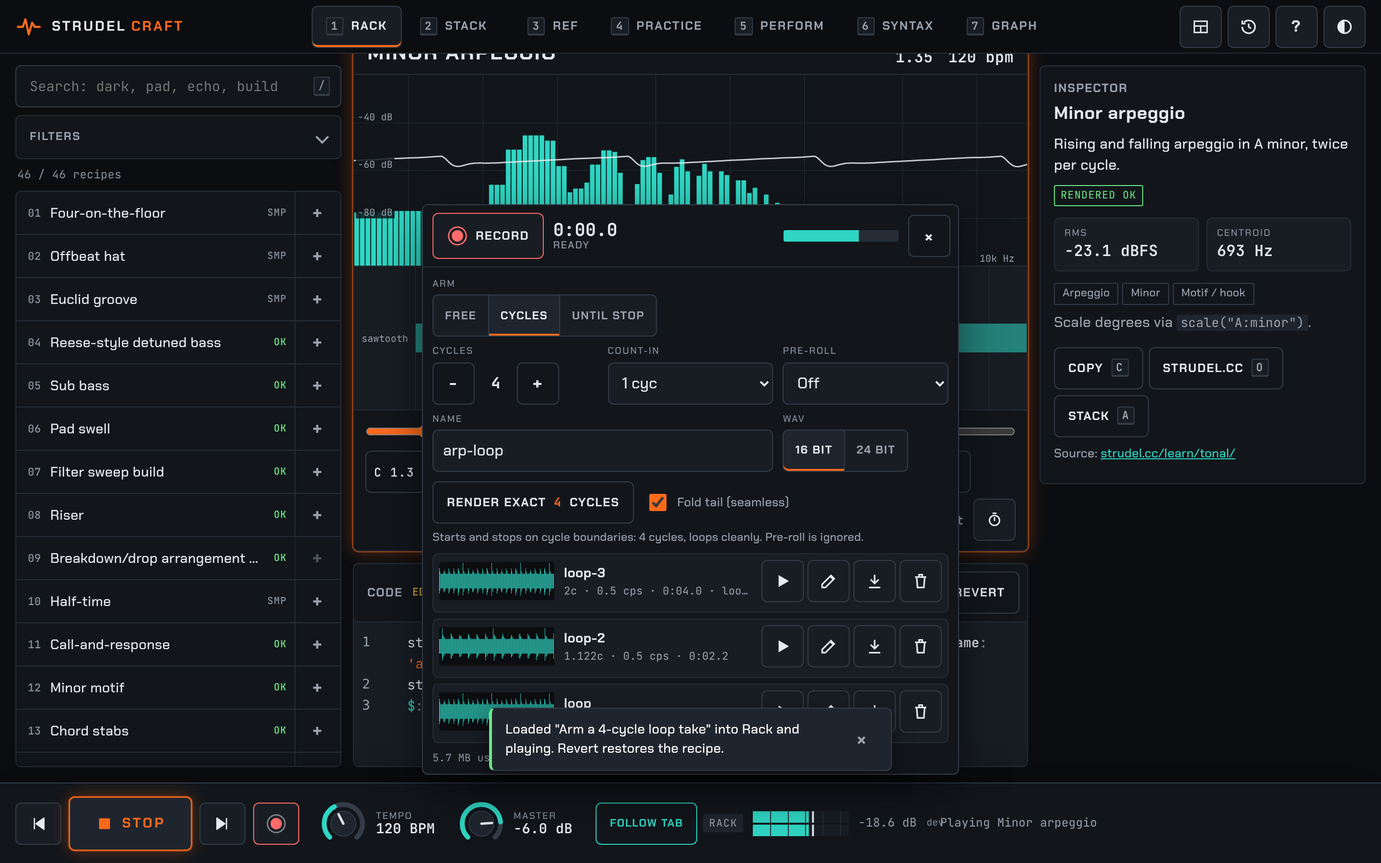
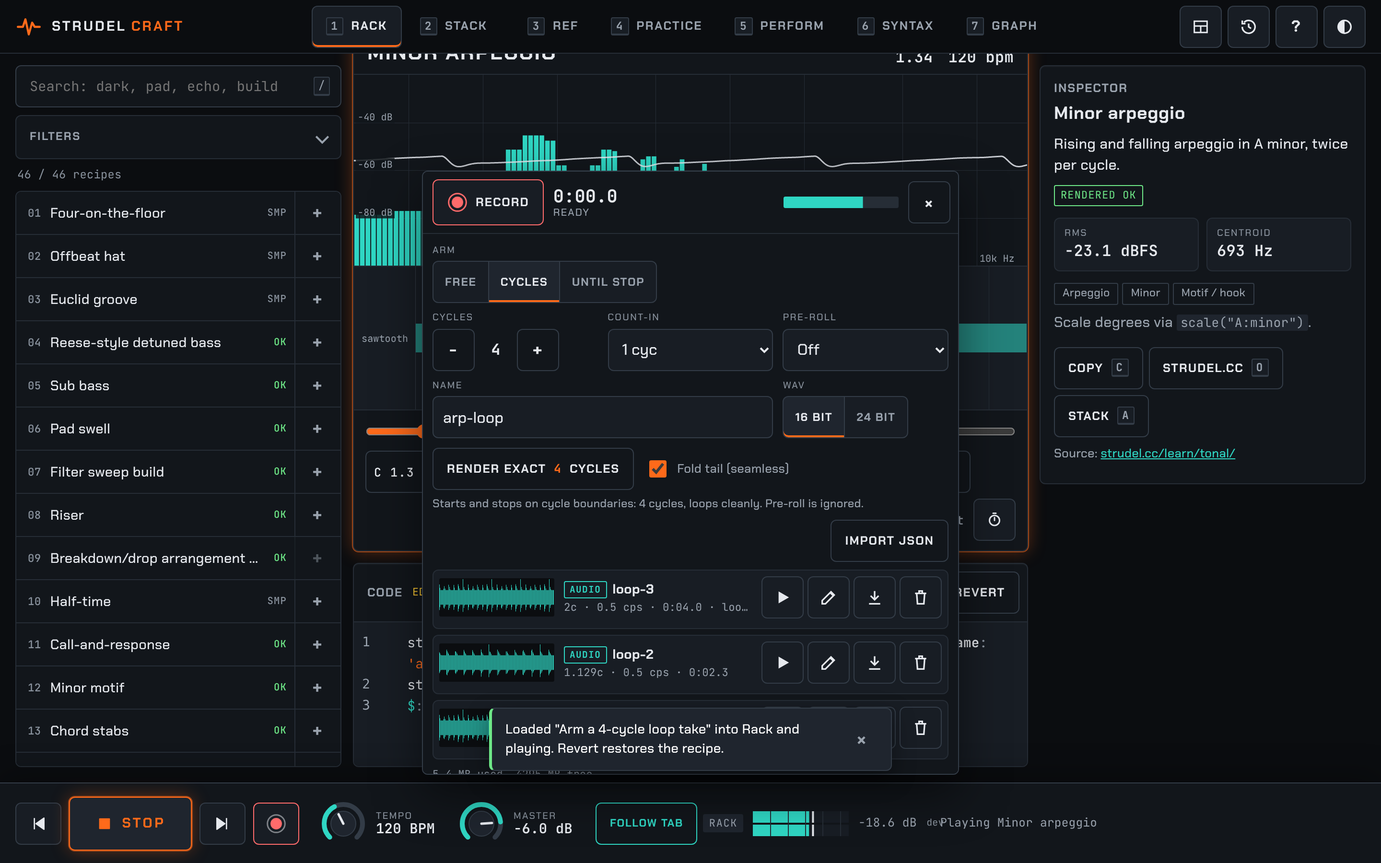
site: Perform lane / pad takes in the capture list - lane/pads/audio badges, Take saved toast with Download, per take Download JSON (strudel-craft/motion@1: events with cycle/time, ids, values, cps, refs, model, code, source), Export audio (re-record pass through capture, WAV), Copy code (laneCode/b
Claude-Session: https://claude.ai/code/session_01Tu9yF1Ta77zUw7h4fxzQMi

diff --git a/site/capture.js b/site/capture.js
@@ -89,11 +89,15 @@ async function waitTicking(ms = 4000) {
 }
 
 /* ---------- record ---------- */
-async function record(o = {}) {
-  if (st.phase !== 'idle') return; /* busy: use stop() or toggleRec() */
+/* run: one-off overrides that are not persisted ({mode, n, countIn, name, at: absolute start cycle, from: motion take id});
+   resolves with the saved take (or null) */
+async function record(o = {}, run = {}) {
+  if (st.phase !== 'idle') return null; /* busy: use stop() or toggleRec() */
   if (o && Object.keys(o).length) configure(o);
-  if (st.rendering) { toast('Rendering, wait a moment', { kind: 'info' }); return; }
-  const T = sc.transport; if (!T) return;
+  const ru = st.run = { mode: run.mode || opts.mode, n: Math.max(1, (run.n || opts.n) | 0), countIn: run.countIn != null ? run.countIn : opts.countIn, preRoll: run.mode ? 0 : opts.preRoll, name: run.name || opts.name, at: run.at, step: run.step, from: run.from };
+  const done = st.done = new Promise((r) => { st.resolve = r; });
+  if (st.rendering) { toast('Rendering, wait a moment', { kind: 'info' }); st.resolve(null); return null; }
+  const T = sc.transport; if (!T) { st.resolve(null); return null; }
   st.phase = 'arming'; sync();
   try {
     if (!T.playing) { await T.play(); if (!T.playing) throw new Error('Press Play first (audio is blocked or nothing to play)'); if (!(await waitTicking())) throw new Error('The transport did not start'); }
@@ -102,19 +106,21 @@ async function record(o = {}) {
     if (st.tap.port) st.tap.port.postMessage({ on: true });
     const ck = clock(); if (!ck) throw new Error('The transport is not running');
     const now = st.tapCtx.currentTime + 0.02, rate = sr(), c = ck.cycleAt(now);
-    const k = Math.max(0, opts.countIn | 0);
+    const k = Math.max(0, ru.countIn | 0);
     let startT, startCycle = null;
-    if (opts.mode === 'cycles' || k > 0) { startCycle = Math.ceil(c - 1e-6) + k; startT = ck.timeOf(startCycle); } else startT = now;
+    if (ru.at != null) { startCycle = ru.at; while (ck.timeOf(startCycle) < now) startCycle += ru.step || ru.n; startT = ck.timeOf(startCycle); }
+    else if (ru.mode === 'cycles' || k > 0) { startCycle = Math.ceil(c - 1e-6) + k; startT = ck.timeOf(startCycle); } else startT = now;
     st.startCycle = startCycle; st.cps = ck.cps;
-    const pre = opts.mode === 'cycles' ? 0 : Math.max(0, +opts.preRoll || 0);
+    const pre = ru.mode === 'cycles' ? 0 : Math.max(0, +ru.preRoll || 0);
     const first = st.chunks.length ? st.chunks[0].f0 : Math.round(now * rate);
     st.startFrame = Math.max(first, Math.round((startT - pre) * rate)); st.recFrame = Math.round(startT * rate);
-    if (opts.mode === 'cycles') st.endFrame = st.recFrame + Math.round(Math.max(1, opts.n) / ck.cps * rate);
-    else if (opts.mode === 'until') { const r = sc.range && sc.range.state; const capS = r ? Math.max(1, r.maxMin * 60 + (r.extra || 0) - (r.elapsed || 0)) : 600; st.endFrame = st.recFrame + Math.round(capS * rate); }
+    if (ru.mode === 'cycles') st.endFrame = st.recFrame + Math.round(ru.n / ck.cps * rate);
+    else if (ru.mode === 'until') { const r = sc.range && sc.range.state; const capS = r ? Math.max(1, r.maxMin * 60 + (r.extra || 0) - (r.elapsed || 0)) : 600; st.endFrame = st.recFrame + Math.round(capS * rate); }
     else st.endFrame = 0;
     st.src = T.source(); st.hold = 0; st.phase = 'waiting'; st.t0 = performance.now();
     sync(); loop();
-  } catch (e) { st.phase = 'idle'; sync(); toast('Record: ' + (e.message || e), { kind: 'error' }); }
+  } catch (e) { st.phase = 'idle'; sync(); toast('Record: ' + (e.message || e), { kind: 'error' }); st.resolve(null); }
+  return done;
 }
 function toggleRec() { return st.phase === 'idle' ? record() : stop(); }
 /* set capture options from code or the palette; persisted (sc.capture.*) and reflected in the sheet */
@@ -125,8 +131,8 @@ function configure(o = {}) {
   sync(); return { ...opts };
 }
 function stop() {
-  if (st.phase === 'waiting' && (!st.tapCtx || st.tapCtx.currentTime * sr() < st.recFrame)) { st.phase = 'idle'; sync(); toast('Record cancelled', { kind: 'info' }); return; }
-  if (st.phase === 'recording' || st.phase === 'waiting') finish(opts.mode === 'cycles' ? 'early' : 'done');
+  if (st.phase === 'waiting' && (!st.tapCtx || st.tapCtx.currentTime * sr() < st.recFrame)) { st.phase = 'idle'; sync(); toast('Record cancelled', { kind: 'info' }); st.resolve(null); return; }
+  if (st.phase === 'recording' || st.phase === 'waiting') finish(st.run.mode === 'cycles' ? 'early' : 'done');
 }
 let rafOn = false;
 function loop() {
@@ -151,14 +157,15 @@ async function finish(why) {
   if (!end || why !== 'done' || end > have) end = Math.min(end || have, have);
   st.phase = 'saving'; sync();
   const { L, R } = slice(st.startFrame, end);
-  if (L.length < rate * 0.05) { st.phase = 'idle'; sync(); toast('Nothing captured', { kind: 'error' }); return; }
+  if (L.length < rate * 0.05) { st.phase = 'idle'; sync(); toast('Nothing captured', { kind: 'error' }); st.resolve(null); return; }
   const recLen = end - st.recFrame; const cycles = recLen / rate * st.cps;
-  const exact = opts.mode === 'cycles' && why === 'done';
+  const ru = st.run, exact = ru.mode === 'cycles' && why === 'done'; let take = null;
   try {
-    const take = await save({ L, R, sr: rate, cycles: exact ? opts.n : +cycles.toFixed(3), cps: st.cps, mode: opts.mode, exact, loop: exact, how: 'realtime',
+    take = await save({ L, R, sr: rate, cycles: exact ? ru.n : +cycles.toFixed(3), cps: st.cps, mode: ru.mode, exact, loop: exact, how: 'realtime', name: ru.name, from: ru.from,
       preRoll: (st.recFrame - st.startFrame) / rate, startCycle: st.startCycle, why });
     toast(`Saved ${take.meta.name} (${fmtT(L.length / rate)})`, { kind: 'ok' });
   } catch (e) { toast('Could not save take: ' + e.message, { kind: 'error' }); }
+  st.resolve(take);
   st.phase = 'idle'; if (!(opts.preRoll > 0)) st.chunks = []; sync(); renderTakes();
 }
 
@@ -222,12 +229,12 @@ function peaks(L, R, cols = 160) {
 }
 async function save(t) {
   const src = t.src || st.src || (sc.transport && sc.transport.source()) || {};
-  const list = await listMeta(); const base = safe(opts.name); let name = base, i = 2; const names = new Set(list.map((m) => m.name));
+  const list = await listMeta(); const base = safe(t.name || opts.name); let name = base, i = 2; const names = new Set(list.map((m) => m.name));
   while (names.has(name)) name = base + '-' + i++;
   let pk = 0; for (let k = 0; k < t.L.length; k++) { const a = Math.abs(t.L[k]); if (a > pk) pk = a; }
   const meta = { id: 'tk' + Date.now().toString(36) + Math.random().toString(36).slice(2, 6), kind: 'take', name, created: new Date().toISOString(),
     sr: t.sr, frames: t.L.length, seconds: t.L.length / t.sr, cycles: t.cycles, cps: +(+t.cps).toFixed(6), mode: t.mode, exact: !!t.exact, loop: !!t.loop, how: t.how,
-    preRoll: t.preRoll || 0, fold: !!t.fold, haps: t.haps, fails: t.fails || 0, startCycle: t.startCycle, peak: pk, peaks: Array.from(peaks(t.L, t.R)),
+    type: 'audio', from: t.from || null, preRoll: t.preRoll || 0, fold: !!t.fold, haps: t.haps, fails: t.fails || 0, startCycle: t.startCycle, peak: pk, peaks: Array.from(peaks(t.L, t.R)),
     source: { kind: src.kind || null, title: src.title || null, code: src.code || '' }, bytes: t.L.length * 8 };
   const rec = { meta, audio: { L: t.L, R: t.R } };
   if (await DB) await tx('readwrite', (s) => s.put(rec)); else mem.set(meta.id, rec);
@@ -247,6 +254,87 @@ async function quota() {
     if (quotaMsg && !quota.warned) { quota.warned = true; toast(quotaMsg, { kind: 'error' }); }
     if (navigator.storage.persist && !quota.asked) { quota.asked = true; navigator.storage.persist().catch(() => {}); }
   } catch (e) { /* estimate unsupported */ }
+}
+
+/* ---------- motion takes: Perform lane (control automation) and pad takes, kept in the same list (no audio) ---------- */
+const fr = (x) => { if (typeof x === 'number') return x; const m = /^(-?\d+)(?:\/(\d+))?$/.exec(String(x)); return m ? +m[1] / +(m[2] || 1) : +x; };
+const MOTION = 'strudel-craft/motion@1';
+function motionPreview(type, model, len) {
+  const out = new Array(160).fill(0);
+  if (type === 'lane') { const lib = sc.controls && sc.controls.lib; const pts = model.lane.points; if (!pts.length) return out;
+    const vs = pts.map((p) => p[1]); const lo = Math.min(...vs), hi = Math.max(...vs);
+    for (let i = 0; i < 160; i++) { const v = lib ? lib.sampleLane(model.lane, i / 160 * len) : vs[0]; out[i] = hi > lo ? (v - lo) / (hi - lo) : 0.5; } }
+  else for (const l of model.performance.layers) for (const e of l.events) { const i = Math.min(159, Math.floor(fr(e.t) / len * 160)); out[i] = Math.max(out[i], e.type === 'on' ? (e.velocity != null ? e.velocity : 1) : 0.35); }
+  return out;
+}
+function motionEvents(type, model, cps) {
+  if (type === 'lane') return model.lane.points.map(([t, v, sh]) => ({ cycle: fr(t), time: +(fr(t) / cps).toFixed(6), control: model.control, value: v, shape: sh || 'lin' }));
+  const o = fr(model.performance.origin || 0), tg = model.pads || {};
+  return model.performance.layers.flatMap((l, li) => l.events.map((e) => ({ cycle: o + fr(e.t), t: fr(e.t), time: +(fr(e.t) / cps).toFixed(6), layer: li, pad: e.pad, type: e.type, ...(e.velocity != null ? { velocity: e.velocity } : {}), ...(tg[e.pad] ? { target: tg[e.pad] } : {}) })))
+    .sort((a, b) => a.cycle - b.cycle);
+}
+function motionCode(rec) {
+  const m = rec.model, n = (rec.meta.name || 'take').replace(/[^\w]/g, '_').replace(/^(\d)/, '_$1');
+  if (rec.meta.type === 'lane') return sc.controls && sc.controls.lib ? sc.controls.lib.laneCode(m.lane, n) : '';
+  return sc.pads && sc.pads.lib ? sc.pads.lib.bounceCode(m.performance, { pads: m.pads || {}, name: rec.meta.name }) : '';
+}
+/* save a motion take: {type: 'lane', control, lane} or {type: 'pads', performance, bank, pads}; returns the record */
+async function saveMotion(d, { silent = false } = {}) {
+  const type = d.type === 'pads' ? 'pads' : 'lane';
+  const model = type === 'lane' ? { control: d.control, lane: JSON.parse(JSON.stringify(d.lane)) } : { performance: JSON.parse(JSON.stringify(d.performance)), bank: d.bank || null, pads: JSON.parse(JSON.stringify(d.pads || {})) };
+  const len = type === 'lane' ? fr(model.lane.period || model.lane.length || 1) : fr(model.performance.length || 1);
+  const sch = sc.transport && sc.transport.scheduler; const cps = d.cps || (sch && sch.cps) || 0.5;
+  const src = d.source || (sc.transport && sc.transport.source()) || {};
+  const list = await listMeta(); const base = safe(d.name || (type === 'lane' ? 'lane-' + d.control : 'pads-' + (d.bank || 'take'))); let name = base, i = 2; const names = new Set(list.map((x) => x.name)); while (names.has(name)) name = base + '-' + i++;
+  const events = motionEvents(type, model, cps);
+  const meta = { id: 'mt' + Date.now().toString(36) + Math.random().toString(36).slice(2, 6), kind: 'motion', type, name, created: new Date().toISOString(), cycles: len, cps: +(+cps).toFixed(6), seconds: len / cps,
+    events: events.length, control: model.control || null, bank: model.bank || null, peaks: motionPreview(type, model, len), source: { kind: src.kind || null, title: src.title || null, code: src.code || '' } };
+  const rec = { meta, model };
+  if (await DB) await tx('readwrite', (s) => s.put(rec)); else mem.set(meta.id, rec);
+  if (!silent) toast(`Take saved: ${name}. Download`, { kind: 'ok', ms: 6000, onClick: () => download(meta.id, 'json') });
+  renderTakes(); return rec;
+}
+function motionJson(rec) {
+  const m = rec.meta; let code = ''; try { code = motionCode(rec); } catch (e) { code = ''; }
+  return { format: MOTION, type: m.type, name: m.name, created: m.created, cps: m.cps, length: m.cycles, seconds: m.seconds,
+    origin: m.type === 'pads' ? fr(rec.model.performance.origin || 0) : 0, refs: m.type === 'lane' ? { control: m.control } : { bank: m.bank, pads: rec.model.pads || {} },
+    events: motionEvents(m.type, rec.model, m.cps), model: rec.model, code, source: m.source };
+}
+function parseMotion(text) {
+  const j = typeof text === 'string' ? JSON.parse(text) : text;
+  if (!j || j.format !== MOTION || !j.model || !/^(lane|pads)$/.test(j.type)) throw new Error('Not a Strudel Craft motion take (format ' + MOTION + ')');
+  if (j.type === 'lane' && !(j.model.control && j.model.lane && Array.isArray(j.model.lane.points))) throw new Error('Lane take needs model.control and model.lane.points');
+  if (j.type === 'pads' && !(j.model.performance && Array.isArray(j.model.performance.layers))) throw new Error('Pad take needs model.performance.layers');
+  return j;
+}
+/* load a motion take back into Perform: a lane goes onto its control, a pad take into the looper (optionally replaying) */
+async function applyMotion(rec, { play = false } = {}) {
+  const P = sc.perform; if (!P || !P.applyLane) throw new Error('Perform tools load on the first Play: press Play once');
+  if (rec.meta.type === 'lane') { P.applyLane(rec.model.control, rec.model.lane); return null; }
+  return P.applyTake(rec.model.performance, rec.model.bank, { play });
+}
+async function importMotion(file) {
+  const text = await file.text(); const j = parseMotion(text);
+  const rec = await saveMotion({ ...(j.type === 'lane' ? { control: j.model.control, lane: j.model.lane } : j.model), type: j.type, name: j.name, cps: j.cps, source: j.source }, { silent: true });
+  try { await applyMotion(rec); toast(`Imported ${rec.meta.name} and loaded it into Perform`, { kind: 'ok' }); } catch (e) { toast(`Imported ${rec.meta.name}. ${e.message}`, { kind: 'info' }); }
+  return rec;
+}
+/* audio of a motion take: load it, play the program, record the take's length on its loop boundary through the capture path, save + download WAV */
+async function exportMotionAudio(id, { download: dl = true } = {}) {
+  const rec = await getTake(id); if (!rec) return null; const T = sc.transport;
+  if (st.phase !== 'idle' || st.rendering) { toast('Capture is busy', { kind: 'info' }); return null; }
+  if (!T.playing) { await T.play(); if (!T.playing || !(await waitTicking())) { toast('Press Play first', { kind: 'error' }); return null; } }
+  const len = rec.meta.cycles; let at;
+  if (rec.meta.type === 'lane') { await applyMotion(rec); at = 0; } /* lanes are periodic from cycle 0: record() steps to the next loop start */
+  else at = await applyMotion(rec, { play: true });
+  const take = await record({}, { mode: 'cycles', n: Math.max(1, Math.ceil(len - 1e-9)), countIn: 0, at, step: len, name: rec.meta.name + '-audio', from: id });
+  if (take && dl) saveBlob(encodeWav(take, opts.bits), fileName(take, 'wav'));
+  return take;
+}
+async function copyCode(id) {
+  const rec = await getTake(id); const code = motionCode(rec); if (!code) { toast('No code for this take', { kind: 'error' }); return; }
+  try { await navigator.clipboard.writeText(code); toast('Strudel code copied', { kind: 'ok' }); }
+  catch (e) { await sc.ui.ask({ title: 'Strudel code', label: 'Copy this code', value: code.replace(/\n/g, ' '), okText: 'Done' }); }
 }
 
 /* ---------- encode ---------- */
@@ -301,6 +389,7 @@ function saveBlob(blob, name) {
 }
 async function download(id, fmt = 'wav16') {
   const t = await getTake(id); if (!t) return;
+  if (t.meta.kind === 'motion') { if (fmt === 'audio') return exportMotionAudio(id); return saveBlob(new Blob([JSON.stringify(motionJson(t), null, 2)], { type: 'application/json' }), `${safe(t.meta.name)}_${t.meta.type}_${numStr(t.meta.cycles)}c_${numStr(t.meta.cps)}cps.json`); }
   if (fmt === 'json') return saveBlob(sidecar(t), fileName(t, 'json'));
   if (fmt === 'wav16' || fmt === 'wav24') return saveBlob(encodeWav(t, fmt === 'wav24' ? 24 : 16), fileName(t, 'wav'));
   const note = $(`#capTakes [data-id="${id}"] .cap-tk-sub`); const was = note && note.textContent;
@@ -337,6 +426,7 @@ function build() {
   </div>
   <div class="cap-exact"><button type="button" id="capExact" class="ghost">Render exact <b id="capExactN">${opts.n}</b> cycles</button><label class="switch"><input id="capFold" type="checkbox"${opts.fold ? ' checked' : ''}><span>Fold tail (seamless)</span></label></div>
   <p class="cap-hint" id="capHint"></p>
+  <div class="cap-imp"><button type="button" id="capImport" class="ghost">Import JSON</button><input type="file" id="capFile" accept="application/json,.json" hidden></div>
   <ol class="cap-takes" id="capTakes" aria-label="Takes"></ol>
   <p class="cap-quota" id="capQuota"></p>`;
   document.body.append(w);
@@ -344,6 +434,8 @@ function build() {
   $('#capClose').addEventListener('click', () => close());
   el.rec.addEventListener('click', () => toggleRec());
   el.exact.addEventListener('click', () => renderExact());
+  $('#capImport').addEventListener('click', () => $('#capFile').click());
+  $('#capFile').addEventListener('change', async (e) => { const f = e.target.files && e.target.files[0]; e.target.value = ''; if (!f) return; try { await importMotion(f); } catch (err) { toast('Import: ' + err.message, { kind: 'error' }); } });
   w.addEventListener('change', (e) => {
     const t = e.target;
     if (t.name === 'cap-mode') { opts.mode = t.value; set('mode', opts.mode); }
@@ -380,7 +472,7 @@ function draw() {
   if (st.phase === 'waiting') { const ck = clock(); const left = (st.recFrame - now) / rate; el.time.textContent = '-' + fmtT(left); el.state.textContent = ck && st.startCycle != null ? `Count-in: ${Math.max(0, Math.ceil(left * ck.cps))}` : 'Starting'; }
   else if (st.phase === 'recording') {
     const t = (now - st.recFrame) / rate; el.time.textContent = fmtT(t);
-    el.state.textContent = opts.mode === 'cycles' ? `Cycle ${Math.min(opts.n, t * st.cps).toFixed(1)} / ${opts.n}` : opts.mode === 'until' ? `Cap ${fmtT((st.endFrame - st.recFrame) / rate)}` : 'Recording';
+    el.state.textContent = st.run.mode === 'cycles' ? `Cycle ${Math.min(st.run.n, t * st.cps).toFixed(1)} / ${st.run.n}` : st.run.mode === 'until' ? `Cap ${fmtT((st.endFrame - st.recFrame) / rate)}` : 'Recording';
   }
   const c = el.meter, dpr = Math.min(2, window.devicePixelRatio || 1), W = Math.round(c.clientWidth * dpr), H = Math.round(c.clientHeight * dpr);
   if (!W || !H) return; if (c.width !== W) c.width = W; if (c.height !== H) c.height = H;
@@ -393,9 +485,9 @@ function draw() {
 async function renderTakes() {
   if (!el.takes) return;
   const list = await listMeta();
-  el.takes.innerHTML = list.length ? list.map((m) => `<li data-id="${m.id}" class="cap-tk">
+  el.takes.innerHTML = list.length ? list.map((m) => m.kind === 'motion' ? motionRow(m) : `<li data-id="${m.id}" class="cap-tk" data-type="audio">
     <canvas class="cap-wave" aria-hidden="true"></canvas>
-    <div class="cap-tk-info"><b class="cap-tk-name">${esc(m.name)}</b><span class="cap-tk-sub">${numStr(m.cycles)}c · ${numStr(m.cps)} cps · ${fmtT(m.seconds)}${m.exact ? ' · loop' : ''}${m.how === 'offline' ? ' · exact' : ''}</span></div>
+    <div class="cap-tk-info"><b class="cap-tk-name"><i class="cap-badge" data-type="audio">audio</i>${esc(m.name)}</b><span class="cap-tk-sub">${numStr(m.cycles)}c · ${numStr(m.cps)} cps · ${fmtT(m.seconds)}${m.exact ? ' · loop' : ''}${m.how === 'offline' ? ' · exact' : ''}</span></div>
     <div class="cap-tk-acts">
       <button type="button" class="ghost icon" data-act="play" aria-label="Play ${esc(m.name)}" aria-pressed="false"><svg viewBox="0 0 24 24" aria-hidden="true"><path d="M7 4.5v15l13-7.5z" class="fill"/></svg></button>
       <button type="button" class="ghost icon" data-act="rename" aria-label="Rename ${esc(m.name)}"><svg viewBox="0 0 24 24" aria-hidden="true"><path d="M4 20h4L19 9l-4-4L4 16zM14 6l4 4"/></svg></button>
@@ -404,7 +496,7 @@ async function renderTakes() {
     </div>
     <div class="cap-dl" hidden><button type="button" data-act="wav16">WAV 16</button><button type="button" data-act="wav24">WAV 24</button>${compressedType() ? `<button type="button" data-act="comp">${compressedType().ext.toUpperCase()}</button>` : ''}<button type="button" data-act="json">JSON</button></div>
   </li>`).join('') : '<li class="cap-empty">No takes yet. Record or render one; takes stay on this device.</li>';
-  for (const li of el.takes.querySelectorAll('li[data-id]')) { const m = list.find((x) => x.id === li.dataset.id); wave(li.querySelector('canvas'), m.peaks); }
+  for (const li of el.takes.querySelectorAll('li[data-id]')) { const m = list.find((x) => x.id === li.dataset.id); if (m.kind === 'motion') motionWave(li.querySelector('canvas'), m.peaks, m.type); else wave(li.querySelector('canvas'), m.peaks); }
   quota();
 }
 function wave(c, pk) {
@@ -413,6 +505,31 @@ function wave(c, pk) {
   let mx = 1e-6; for (const v of pk) mx = Math.max(mx, Math.abs(v)); const k = (H / 2 - dpr) / Math.max(mx, 0.05);
   g.fillStyle = cs.getPropertyValue('--sig-2').trim() || '#2fd6c3';
   for (let i = 0; i < cols; i++) { const x = Math.floor(i * W / cols), w = Math.max(1, Math.floor(W / cols) - (W / cols > 2 ? 1 : 0)); const y0 = H / 2 - pk[i * 2 + 1] * k, y1 = H / 2 - pk[i * 2] * k; g.fillRect(x, y0, w, Math.max(dpr, y1 - y0)); }
+}
+const ICON = {
+  dl: '<svg viewBox="0 0 24 24" aria-hidden="true"><path d="M12 4v11M7 10l5 5 5-5M5 20h14"/></svg>',
+  ren: '<svg viewBox="0 0 24 24" aria-hidden="true"><path d="M4 20h4L19 9l-4-4L4 16zM14 6l4 4"/></svg>',
+  del: '<svg viewBox="0 0 24 24" aria-hidden="true"><path d="M5 7h14M10 7V4h4v3M7 7l1 13h8l1-13"/></svg>',
+};
+function motionRow(m) {
+  const what = m.type === 'lane' ? `lane · ${esc(m.control || '')}` : `pads · ${esc(m.bank || '')}`;
+  return `<li data-id="${m.id}" class="cap-tk" data-type="${m.type}">
+    <canvas class="cap-wave" aria-hidden="true"></canvas>
+    <div class="cap-tk-info"><b class="cap-tk-name"><i class="cap-badge" data-type="lane">${m.type === 'lane' ? 'lane' : 'pads'}</i>${esc(m.name)}</b><span class="cap-tk-sub">${what} · ${m.events} ev · ${numStr(m.cycles)}c · ${numStr(m.cps)} cps</span></div>
+    <div class="cap-tk-acts">
+      <button type="button" class="ghost" data-act="load" aria-label="Load ${esc(m.name)} into Perform">Load</button>
+      <button type="button" class="ghost icon" data-act="rename" aria-label="Rename ${esc(m.name)}">${ICON.ren}</button>
+      <button type="button" class="ghost icon" data-act="mjson" aria-label="Download ${esc(m.name)} as JSON">${ICON.dl}</button>
+      <button type="button" class="ghost icon" data-act="del" aria-label="Delete ${esc(m.name)}">${ICON.del}</button>
+    </div>
+    <div class="cap-dl"><button type="button" data-act="mjson">JSON</button><button type="button" data-act="maudio">Export audio</button><button type="button" data-act="mcode">Copy code</button></div>
+  </li>`;
+}
+function motionWave(c, pk, type) {
+  const dpr = Math.min(2, window.devicePixelRatio || 1), W = Math.round((c.clientWidth || 96) * dpr), H = Math.round((c.clientHeight || 40) * dpr); c.width = W; c.height = H;
+  const g = c.getContext('2d'), cs = getComputedStyle(c), n = pk.length; g.strokeStyle = g.fillStyle = cs.getPropertyValue('--sig').trim() || '#ff6a1a'; g.lineWidth = 1.5 * dpr;
+  if (type === 'lane') { g.beginPath(); for (let i = 0; i < n; i++) { const x = i / (n - 1) * W, y = H - dpr * 3 - pk[i] * (H - dpr * 6); i ? g.lineTo(x, y) : g.moveTo(x, y); } g.stroke(); }
+  else for (let i = 0; i < n; i++) if (pk[i] > 0) { const h = Math.max(3 * dpr, pk[i] * (H - 4 * dpr)); g.fillRect(Math.floor(i / n * W), H - 2 * dpr - h, Math.max(dpr * 1.5, W / n), h); }
 }
 let player = null, playerId = null;
 async function takeAct(act, id, btn) {
@@ -426,15 +543,19 @@ async function takeAct(act, id, btn) {
     a.onpause = () => { pb.setAttribute('aria-pressed', 'false'); URL.revokeObjectURL(a.src); if (player === a) { player = null; playerId = null; } };
     a.play().catch((e) => toast('Preview: ' + e.message, { kind: 'error' }));
   } else if (act === 'rename') {
-    const cur = li.querySelector('.cap-tk-name').textContent;
+    const cur = li.querySelector('.cap-tk-name').lastChild.textContent;
     const v = await sc.ui.ask({ title: 'Rename take', label: 'Name (letters, digits, - _ .)', value: cur, okText: 'Rename' });
     if (v && v.trim()) { const n = await rename(id, v); toast('Renamed to ' + n, { kind: 'ok' }); renderTakes(); }
   } else if (act === 'del') {
-    const cur = li.querySelector('.cap-tk-name').textContent;
+    const cur = li.querySelector('.cap-tk-name').lastChild.textContent;
     if (await sc.ui.askYesNo({ title: 'Delete take', message: `Delete "${cur}" from this device? Download it first to keep it.`, okText: 'Delete', danger: true })) { if (playerId === id && player) player.pause(); await remove(id); toast('Deleted ' + cur, { kind: 'info' }); renderTakes(); }
   } else if (act === 'dl') {
     const d = li.querySelector('.cap-dl'); d.hidden = !d.hidden; btn.setAttribute('aria-expanded', String(!d.hidden));
-  } else if (act === 'wav16' || act === 'wav24' || act === 'json' || act === 'comp') download(id, act === 'comp' ? 'comp' : act);
+  } else if (act === 'load') { const r = await getTake(id); try { await applyMotion(r); toast(`Loaded ${r.meta.name} into Perform`, { kind: 'ok' }); } catch (e) { toast(e.message, { kind: 'error' }); }
+  } else if (act === 'mjson') download(id, 'json');
+  else if (act === 'maudio') { btn.disabled = true; try { await exportMotionAudio(id); } finally { btn.disabled = false; } }
+  else if (act === 'mcode') copyCode(id);
+  else if (act === 'wav16' || act === 'wav24' || act === 'json' || act === 'comp') download(id, act === 'comp' ? 'comp' : act);
 }
 function dock() { const tp = $('.transport'); if (tp && el.w) el.w.style.setProperty('--cap-bottom', Math.round(tp.getBoundingClientRect().height) + 'px'); }
 addEventListener('resize', () => st.open && dock());
@@ -451,5 +572,7 @@ function init() {
     P.register({ id: 'capture.exact', group: 'Capture', title: 'Render exact N cycles (offline)', run: () => { open(); renderExact(); } });
   }
 }
-sc.capture = { open, close, toggle: toggleSheet, record, stop, toggleRec, configure, renderExact, list: listMeta, get: getTake, remove, rename, encodeWav, sidecar, fileName, download, opts, state: st };
+/* Perform recorders announce finished takes (perform.js dispatches perform:take) */
+addEventListener('perform:take', (e) => { const d = e.detail || {}; saveMotion(d).catch((err) => toast('Could not keep the take: ' + err.message, { kind: 'error' })); });
+sc.capture = { saveMotion, motionJson, parseMotion, importMotion, applyMotion, exportMotionAudio, motionCode, open, close, toggle: toggleSheet, record, stop, toggleRec, configure, renderExact, list: listMeta, get: getTake, remove, rename, encodeWav, sidecar, fileName, download, opts, state: st };
 if (document.readyState === 'loading') document.addEventListener('DOMContentLoaded', init); else init();

diff --git a/site/perform.js b/site/perform.js
@@ -286,6 +286,7 @@ function recFinish() {
   const lane = sc.controls.lib.recordLane({ moves, range: [s.min ?? 0, s.max ?? 1], mode: 'curve', length: L, period: L, control: r.name });
   A.undo.push({ id, prev: r.prev || null }); controls.addLane(id, lane); persistControls(); render(); renderInline();
   ui().toast(`Lane ${r.overdub ? 'overdubbed' : 'recorded'} on ${r.name}: ${lane.points.length} points, ${L} bar`, { kind: 'ok' });
+  takeOut({ type: 'lane', control: r.name, lane });
 }
 function recUndo() { const u = A.undo.pop(); if (!u) { ui().toast('Nothing to undo', { kind: 'info' }); return; } if (u.prev) controls.addLane(u.id, u.prev); else controls.lanes().delete(u.id); persistControls(); render(); renderInline(); ui().toast('Lane change undone', { kind: 'ok' }); }
 
@@ -377,6 +378,16 @@ function takeStop() {
     Tk.looper.overdub(shifted); }
   else { Tk.looper = sc.pads.looper({ length: Tk.bars, origin: r.from }); Tk.bank = bank; Tk.looper.record(j); }
   render(); ui().toast(`Take: ${Tk.looper.eventCount()} events in ${frac(Tk.looper.performance.length)} bar`, { kind: 'ok' });
+  if (Tk.looper.eventCount()) takeOut({ type: 'pads', performance: Tk.looper.performance, bank, pads: takeTargets() });
+}
+/* capture.js keeps every finished lane / pad take in its take list (download JSON, export audio, copy code) */
+function takeOut(d) { try { window.dispatchEvent(new CustomEvent('perform:take', { detail: JSON.parse(JSON.stringify(d)) })); } catch (e) { /* capture optional */ } }
+function takeTargets() { const ps = new Set(Tk.looper.periodic().entries.map((e) => e.pad)); return Object.fromEntries([...ps].map((a) => { const [b, pos] = a.split('/'); const p = (M.banks[b]?.pads || []).find((x) => x.pos === pos); return [a, p ? p.target : null]; })); }
+/* load a stored lane / pad take back (capture.js Load, Import JSON, Export audio); applyTake returns the replay base cycle when play */
+function applyLane(name, lane) { const id = 'lane:' + name; A.undo.push({ id, prev: controls.lanes().get(id) || null }); controls.addLane(id, JSON.parse(JSON.stringify(lane))); persistControls(); render(); renderInline(); }
+function applyTake(perf, bank, { play = false } = {}) {
+  const lp = sc.pads.looper({ length: frac(perf.length), origin: frac(perf.origin || 0) }); lp.performance.layers = JSON.parse(JSON.stringify(perf.layers));
+  Tk.looper = lp; Tk.bank = bank || curTab().id; Tk.play = null; if (play && playing()) { Tk.play = { base: Math.ceil(nowCycle() + 0.25), k: 0 }; takeSchedule(); } render(); return Tk.play ? Tk.play.base : null;
 }
 function takeUndo() { if (!Tk.looper) return; Tk.looper.undo(); render(); }
 function takePlay() {
@@ -588,7 +599,7 @@ setInterval(() => {
 
 /* ---------------- boot ---------------- */
 rebuildPads();
-sc.perform = { model: () => M, render, renderInline, controls, sites: (v) => SITES[v] || [], pads: () => pads, journal: [], latency: lat, work, glue: bindStrudel, looper: () => Tk.looper, take: Tk, lanes: A,
+sc.perform = { model: () => M, render, renderInline, controls, sites: (v) => SITES[v] || [], pads: () => pads, journal: [], latency: lat, work, glue: bindStrudel, looper: () => Tk.looper, take: Tk, lanes: A, applyLane, applyTake,
   capturing: (e) => isPerformView() && !e.ctrlKey && !e.metaKey && !e.altKey && /^(Digit[1-4]|Key[QWERASDFZXCV]|Bracket(Left|Right))$/.test(e.code) && !/^(INPUT|TEXTAREA|SELECT)$/.test(e.target.tagName) && !e.target.isContentEditable };
 bindStrudel(); window.addEventListener('strudel:ready', bindStrudel); wireInput();
 if (sc.binder) { for (const v of ['rack', 'stack']) { SITES[v] = sc.binder.sites(v); SITES[v].forEach(ensureSite); } }

diff --git a/site/capture.css b/site/capture.css
@@ -77,3 +77,9 @@ body.cap-open .pal-fab{display:none}
   .tp-main{gap:2px}
   .tp-meter .meter{width:30px}
 }
+/* take type badge: audio takes vs Perform motion takes (lane = control automation, pads = pad take) */
+.cap-badge{display:inline-block;font-style:normal;font-family:var(--mono);font-size:.6rem;letter-spacing:.08em;text-transform:uppercase;padding:1px 5px;margin-right:6px;border-radius:var(--r1);border:1px solid var(--sig-2);color:var(--sig-2);vertical-align:1px}
+.cap-badge[data-type="lane"]{border-color:var(--sig);color:var(--sig)}
+.cap-tk[data-type="lane"] .cap-wave,.cap-tk[data-type="pads"] .cap-wave{background:var(--panel-3)}
+.cap-tk-acts [data-act="load"]{padding:0 10px}
+.cap-imp{display:flex;justify-content:flex-end;padding:8px 10px 0}

diff --git a/docs/CAPTURE.md b/docs/CAPTURE.md
@@ -49,8 +49,38 @@ Limits:
 - Compressed: the first format `MediaRecorder` supports out of `audio/webm;codecs=opus`, `audio/ogg;codecs=opus`, `audio/mp4`. The take plays once in real time through a private, silent AudioContext into MediaRecorder at 160 kb/s. No MP3 library is bundled.
 - JSON sidecar `strudel-craft/capture@1`: every meta field except the peaks, plus the WAV file name.
 
+## Perform motion takes (lane and pad takes)
+- When a Perform lane recording (Rec lane: control automation) or a looper pad take stops, `perform.js` dispatches `perform:take`. `capture.js` saves it into the same IndexedDB list as a motion record `{meta: {kind: 'motion', type: 'lane'|'pads', ...}, model}`, which holds no audio. A toast "Take saved: <name>. Download" downloads the JSON.
+- Each row has a type badge (`audio`, `lane`, `pads`), a curve or tick preview, and these buttons: Load (back into Perform), Rename, Download, Delete, then JSON, Export audio and Copy code.
+- Download JSON, format `strudel-craft/motion@1`, contains:
+  - `type`, `name`, `cps`, `length` (cycles), `seconds`, `origin`;
+  - `events`: lane points as `{cycle, time, control, value, shape}`, pad events as `{cycle, t, time, layer, pad, type, velocity, target}`;
+  - `refs`: the control id, or the bank and the pad targets;
+  - `model`: the stored lane, or `{performance, bank, pads}`;
+  - `code`: the `laneCode()` / `bounceCode()` output;
+  - `source`: kind, title, and the program code.
+
+  File name: `<name>_<type>_<cycles>c_<cps>cps.json`.
+- Copy code writes the same `laneCode` / `bounceCode` text to the clipboard. Without clipboard access it opens a site modal that holds the text.
+- Import JSON (button above the takes) stores the file as a take and loads it into Perform. A lane goes onto its control (one undo step). A pad take goes into the looper.
+- Export audio is a real-time re-record pass through the capture path:
+  1. It loads the take and starts the transport if needed.
+  2. For a pad take, it starts the looper replay. Lanes are periodic from cycle 0.
+  3. It records `ceil(length)` cycles from the take's next loop start: `record({}, {mode: 'cycles', at, step: length})`.
+  4. It saves the result as an audio take, `<name>-audio` with `meta.from` = the motion take id, and downloads it as a WAV.
+- API: `strudelCraft.perform.applyLane(name, lane)`, `strudelCraft.perform.applyTake(performance, bank, {play})` returns the replay base cycle. `strudelCraft.capture.{saveMotion, motionJson, parseMotion, importMotion, applyMotion, exportMotionAudio, motionCode}`.
+- Test: `node tests/site/motion.mjs` runs at 360px:
+  - record a lane: the take and the toast appear;
+  - row buttons are 44px;
+  - the Download blob parses with the lane events;
+  - Copy code produces `signal(`;
+  - Export audio gives a non-silent WAV of the lane length;
+  - Import JSON loads the lane back;
+  - a looper take lands as `pads`;
+  - no console errors.
+
 ## API
-`strudelCraft.capture = { open, close, toggle, configure(opts), record(opts), stop, toggleRec, renderExact(n), list, get(id), remove(id), rename(id, name), download(id, 'wav16'|'wav24'|'comp'|'json'), encodeWav(take, bits), sidecar(take), fileName(take, ext), opts, state }`.
+`strudelCraft.capture = { saveMotion, motionJson, importMotion, exportMotionAudio, open, close, toggle, configure(opts), record(opts), stop, toggleRec, renderExact(n), list, get(id), remove(id), rename(id, name), download(id, 'wav16'|'wav24'|'comp'|'json'), encodeWav(take, bits), sidecar(take), fileName(take, ext), opts, state }`.
 
 ## Test
 `node tests/site/capture.mjs` runs at 360x740:

diff --git a/site/README.md b/site/README.md
@@ -36,6 +36,7 @@ Published at https://glyphcore.github.io/Strudel-craft/ by `.github/workflows/pa
     node tests/site/perform.mjs        # Perform view, learn/map, lanes, looper (#55)
     node tests/site/word_intellisense.mjs  # word() completions from data/intellisense/words.json (#44)
     node tests/site/vox.mjs            # vocal banks and voxBank()
+    node tests/site/motion.mjs         # Perform lane / pad takes: JSON download, export audio, copy code, import (#72)
     node tests/site/capture.mjs        # audio capture at 360px: 2-cycle take, waveform, WAV header/length, exact render (#72)
 
 Outputs go to `docs/screens/` (`metrics.json`, `lighthouse-mobile.json`, PNG screenshots at 390px and 1440px).
@@ -373,5 +374,6 @@ on another literal switches, the same literal toggles (section 7).
 - **Arm**: Free, Cycles (start and end on cycle boundaries, length `round(N / cps * sr)` frames, loops cleanly) or Until stop (play-time limit is the cap); count-in (cycles) and pre-roll (seconds, Free / Until stop). Takes keep running across Rack/Stack tab switches and a hidden browser tab.
 - **Render exact N cycles**: offline through an OfflineAudioContext (superdough swapped in and restored), sample-exact and faster than real time; Fold tail adds the release back onto the start. Hooks, pads and live seek are not in offline renders (limits in docs/CAPTURE.md).
 - **Takes**: IndexedDB `sc-capture` (`{meta, audio}`), settings `sc.capture.*`; each take has a waveform, play (looping preview, never recorded), rename and delete (site modals), download: WAV 16 / 24 bit, the browser's compressed format (WEBM/Opus on Chrome), JSON sidecar with source and cps. File names `<name>_<cycles>c_<cps>cps.wav`. Storage usage line turns into a warning near the quota.
+- **Perform motion takes**: a finished Rec lane (control automation) or looper pad take lands in the same take list with a `lane` / `pads` badge and a "Take saved, Download" toast. Per take: Download JSON (`strudel-craft/motion@1`: events with cycle and time, control / pad ids, values, cps, refs, model, code, source), Export audio (re-record pass through capture, saved and downloaded as WAV), Copy code (`laneCode` / `bounceCode`), Load; Import JSON loads a take back. Test `node tests/site/motion.mjs`.
 - API `strudelCraft.capture = { open, configure, record, stop, renderExact, list, get, remove, rename, download, encodeWav, sidecar, fileName }`.
 Caret placement works in every state: highlight and widget decorations never dispatch while a pointer is down in an editor and only when they change (CONTROL_BINDING section 5).
